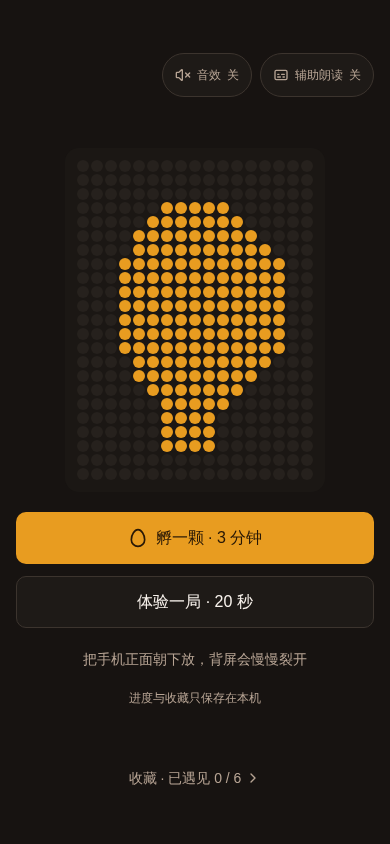
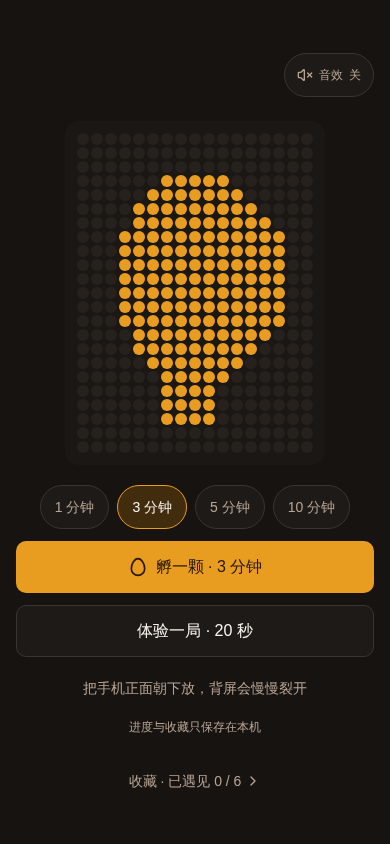
turn: 3

diff --git a/src/shared/egg/EggProvider.tsx b/src/shared/egg/EggProvider.tsx
@@ -32,7 +32,6 @@ import {
   type BackScreenMode,
 } from './backScreen'
 import { sfx, setSoundEnabled } from './audio'
-import { setNarrationEnabled, speak } from './speech'
 import {
   defaultRecord,
   loadRecord,
@@ -41,8 +40,9 @@ import {
 import { PET_BY_ID, petFrame, pickPetId, type Pet } from './pets'
 import { eggFrames, frameForPhase } from './patterns'
 import {
+  DEFAULT_DURATION_MS,
   DEMO_DURATION_MS,
-  NORMAL_DURATION_MS,
+  formatDuration,
   PHASE_BOUNDARIES,
   type EggMode,
   type EggPhase,
@@ -100,7 +100,7 @@ export interface EggContextValue {
   /** 减少动态（系统偏好）：不做帧动画 */
   reducedMotion: boolean
   collectionCount: number
-  startSession: (mode: EggMode) => Promise<void>
+  startSession: (mode: EggMode, durationMs?: number) => Promise<void>
   reveal: () => Promise<void>
   abortSession: () => Promise<void>
   retrySave: () => Promise<void>
@@ -179,7 +179,6 @@ export function EggProvider({ children }: { children: ReactNode }) {
           setRecord(loadedRecord)
           recordRef.current = loadedRecord
           setSoundEnabled(loadedRecord.settings.sound)
-          setNarrationEnabled(loadedRecord.settings.narration)
         }
       } catch (error) {
         if (error instanceof BridgeError && error.code === 'privacy') {
@@ -285,7 +284,6 @@ export function EggProvider({ children }: { children: ReactNode }) {
       const dueToast = () => toast({ title: '孵好了，翻过来看看。', tone: 'success' })
       dueToast()
       if (recordRef.current.settings.sound) sfx.due()
-      speak('孵好了，翻过来看看。')
       try {
         void invokeNative('vibrateShort', { type: 'medium' })
       } catch {
@@ -297,11 +295,9 @@ export function EggProvider({ children }: { children: ReactNode }) {
       const nextSession: EggSession = { ...session, phase: current, hintedPhases: [...hinted, current] }
       void persist({ ...recordRef.current, session: nextSession })
       if (current === 'waiting') {
-        toast({ title: '三分钟后，看看里面是谁。' })
-        speak('三分钟后，看看里面是谁。')
+        toast({ title: `${formatDuration(session.durationMs)}后，看看里面是谁。` })
       } else if (current === 'cracking') {
         toast({ title: '里面好像动了一下。' })
-        speak('里面好像动了一下。')
         if (recordRef.current.settings.sound) sfx.stage()
       }
     }
@@ -360,15 +356,18 @@ export function EggProvider({ children }: { children: ReactNode }) {
 
   /* ---------- 动作：开始一局 ---------- */
   const startSession = useCallback(
-    async (mode: EggMode) => {
+    async (mode: EggMode, durationMs?: number) => {
       const nowTs = Date.now()
-      const durationMs = mode === 'demo' ? DEMO_DURATION_MS : NORMAL_DURATION_MS
+      const chosen =
+        mode === 'demo'
+          ? DEMO_DURATION_MS
+          : Math.max(1_000, Math.round(durationMs ?? recordRef.current.settings.lastDurationMs ?? DEFAULT_DURATION_MS))
       const nextSession: EggSession = {
         sessionId: `egg_${nowTs.toString(36)}_${Math.random().toString(36).slice(2, 8)}`,
         mode,
-        durationMs,
+        durationMs: chosen,
         startedAt: nowTs,
-        deadlineAt: nowTs + durationMs,
+        deadlineAt: nowTs + chosen,
         petId: pickPetId(),
         phase: 'waiting',
         revealedAt: null,
@@ -377,14 +376,17 @@ export function EggProvider({ children }: { children: ReactNode }) {
       readyNotified.current = false
       monoBase.current = { wall: nowTs, mono: performance.now() }
       setNow(nowTs)
-      await persist({ ...recordRef.current, session: nextSession })
+      await persist({
+        ...recordRef.current,
+        settings: { ...recordRef.current.settings, lastDurationMs: mode === 'demo' ? recordRef.current.settings.lastDurationMs : chosen },
+        session: nextSession,
+      })
       await wakeBackScreen().then((r) => {
         if (r.ok) setBackScreenStatus('ok')
         else setBackScreenStatus('failed')
       })
       await submitPhaseFrame('waiting', nextSession.petId)
       if (recordRef.current.settings.sound) sfx.start()
-      speak('三分钟后，看看里面是谁。')
     },
     [persist, submitPhaseFrame],
   )
@@ -421,8 +423,6 @@ export function EggProvider({ children }: { children: ReactNode }) {
       // 预览环境无振动
     }
     if (recordRef.current.settings.sound) sfx.crack()
-    const pet = PET_BY_ID[petId]
-    if (pet) speak(`${pet.name}。${pet.quote}`)
     submitSeq.current += 1
     const seq = submitSeq.current
     const result = await pushFrame(petFrame(petId))
@@ -487,7 +487,6 @@ export function EggProvider({ children }: { children: ReactNode }) {
         settings: { ...recordRef.current.settings, ...patch },
       }
       if (patch.sound !== undefined) setSoundEnabled(patch.sound)
-      if (patch.narration !== undefined) setNarrationEnabled(patch.narration)
       void persist(next)
     },
     [persist],

diff --git a/src/app/pages/StartPage.tsx b/src/app/pages/StartPage.tsx
@@ -1,6 +1,6 @@
 import { useState, type ReactNode } from 'react'
 import { useNavigate } from 'react-router-dom'
-import { Captions, ChevronRight, Egg, Volume2, VolumeX } from 'lucide-react'
+import { ChevronRight, Egg, Volume2, VolumeX } from 'lucide-react'
 
 import { Button } from '@/shared/ui/Button'
 import { Card, CardBody } from '@/shared/ui/Card'
@@ -8,7 +8,7 @@ import { Dialog } from '@/shared/ui/Dialog'
 import { cn } from '@/shared/lib/cn'
 import { useEgg } from '@/shared/egg/EggProvider'
 import { eggFrames } from '@/shared/egg/patterns'
-import { PHASE_LABEL, type EggMode } from '@/shared/egg/types'
+import { DURATION_OPTIONS_MS, DEFAULT_DURATION_MS, PHASE_LABEL, formatDuration, type EggMode } from '@/shared/egg/types'
 import { MatrixView } from '@/app/components/MatrixView'
 
 function formatCountdown(ms: number): string {
@@ -59,34 +59,32 @@ export function StartPage() {
     abortSession,
     updateSettings,
   } = useEgg()
-  const [pendingStart, setPendingStart] = useState<EggMode | null>(null)
+  const [pendingStart, setPendingStart] = useState<{ mode: EggMode; durationMs: number } | null>(null)
+  const [durationMs, setDurationMs] = useState(
+    () => settings.lastDurationMs || DEFAULT_DURATION_MS,
+  )
 
   const active = session != null && phase !== 'revealed'
   const privacyMissing = loaded && settings.privacyAgreed === false
 
   const onStart = (mode: EggMode) => {
+    const chosen = mode === 'demo' ? 0 : durationMs
     if (active) {
-      setPendingStart(mode)
+      setPendingStart({ mode, durationMs: chosen })
       return
     }
-    void startSession(mode).then(() => navigate('/hatch'))
+    void startSession(mode, chosen || undefined).then(() => navigate('/hatch'))
   }
 
   return (
     <div className="page flex min-h-full flex-col">
-      {/* 开始页顶部：音效与辅助朗读开关（默认关闭、相互独立） */}
+      {/* 开始页顶部：音效开关（默认关闭） */}
       <div className="flex items-center justify-end gap-2">
         <TogglePill
           on={settings.sound}
           onClick={() => updateSettings({ sound: !settings.sound })}
           icon={settings.sound ? <Volume2 className="size-4" aria-hidden /> : <VolumeX className="size-4" aria-hidden />}
           label="音效"
-        />
-        <TogglePill
-          on={settings.narration}
-          onClick={() => updateSettings({ narration: !settings.narration })}
-          icon={<Captions className="size-4" aria-hidden />}
-          label="辅助朗读"
         />
       </div>
 
@@ -117,9 +115,30 @@ export function StartPage() {
         ) : null}
 
         <div className="w-full space-y-3">
+          <div className="flex items-center justify-center gap-2" role="group" aria-label="计时时长">
+            {DURATION_OPTIONS_MS.map((option) => (
+              <button
+                key={option}
+                type="button"
+                aria-pressed={durationMs === option}
+                onClick={() => {
+                  setDurationMs(option)
+                  updateSettings({ lastDurationMs: option })
+                }}
+                className={cn(
+                  'min-h-tap rounded-full border px-3.5 text-body transition-colors duration-fast',
+                  durationMs === option
+                    ? 'border-primary bg-primary-soft text-foreground'
+                    : 'border-border bg-surface text-muted-foreground',
+                )}
+              >
+                {formatDuration(option)}
+              </button>
+            ))}
+          </div>
           <Button size="lg" block onClick={() => onStart('normal')}>
             <Egg className="size-5" aria-hidden />
-            孵一颗 · 3 分钟
+            孵一颗 · {formatDuration(durationMs)}
           </Button>
           <Button size="lg" variant="outline" block onClick={() => onStart('demo')}>
             体验一局 · 20 秒
@@ -158,10 +177,12 @@ export function StartPage() {
             </Button>
             <Button
               onClick={() => {
-                const mode = pendingStart
+                const pending = pendingStart
                 setPendingStart(null)
-                if (!mode) return
-                void abortSession().then(() => startSession(mode)).then(() => navigate('/hatch'))
+                if (!pending) return
+                void abortSession()
+                  .then(() => startSession(pending.mode, pending.durationMs || undefined))
+                  .then(() => navigate('/hatch'))
               }}
             >
               结束并重孵

diff --git a/src/app/pages/CollectionPage.tsx b/src/app/pages/CollectionPage.tsx
@@ -4,9 +4,10 @@ import { ChevronRight, Egg, Volume2 } from 'lucide-react'
 import { Button } from '@/shared/ui/Button'
 import { Card, CardBody } from '@/shared/ui/Card'
 import { EmptyState } from '@/shared/ui/Feedback'
+import { useToast } from '@/shared/ui/Toast'
 import { useEgg } from '@/shared/egg/EggProvider'
+import { sfx } from '@/shared/egg/audio'
 import { PETS, petFrame } from '@/shared/egg/pets'
-import { speak } from '@/shared/egg/speech'
 import { MatrixView } from '@/app/components/MatrixView'
 import { usePageTitle } from '@/app/layout/PageTitle'
 import { formatRelativeTime } from '@/shared/lib/format'
@@ -14,7 +15,8 @@ import { formatRelativeTime } from '@/shared/lib/format'
 export function CollectionPage() {
   usePageTitle('收藏')
   const navigate = useNavigate()
-  const { loaded, record, session, phase } = useEgg()
+  const { loaded, record, session, phase, settings } = useEgg()
+  const { toast } = useToast()
 
   if (!loaded) return null
 
@@ -80,7 +82,10 @@ export function CollectionPage() {
                     <button
                       type="button"
                       aria-label={`重听${pet.name}的文案`}
-                      onClick={() => speak(`${pet.name}。${pet.quote}`)}
+                      onClick={() => {
+                        if (settings.sound) sfx.meet()
+                        toast({ title: `${pet.name}：${pet.quote}` })
+                      }}
                       className="flex size-11 items-center justify-center rounded-md text-muted-foreground active:bg-accent"
                     >
                       <Volume2 className="size-5" aria-hidden />

diff --git a/src/shared/egg/types.ts b/src/shared/egg/types.ts
@@ -31,10 +31,10 @@ export interface EggSession {
 export interface EggSettings {
   /** 音效开关（默认关） */
   sound: boolean
-  /** 辅助朗读开关（默认关） */
-  narration: boolean
   /** 翻面自动揭晓（需真机验证，默认关） */
   flipReveal: boolean
+  /** 上次选择的正式模式时长（ms），新一局默认沿用 */
+  lastDurationMs: number
   /** 隐私同意状态缓存 */
   privacyAgreed: boolean | null
 }
@@ -72,3 +72,14 @@ export const PHASE_BOUNDARIES = { cracking: 0.5, almost: 0.85 }
 
 export const NORMAL_DURATION_MS = 3 * 60 * 1000
 export const DEMO_DURATION_MS = 20 * 1000
+
+/** 正式模式可选的计时时长（ms）：1 / 3 / 5 / 10 分钟 */
+export const DURATION_OPTIONS_MS = [60_000, 3 * 60_000, 5 * 60_000, 10 * 60_000]
+export const DEFAULT_DURATION_MS = NORMAL_DURATION_MS
+
+/** 时长的人话标签：不足 1 分钟按秒，否则按分钟 */
+export function formatDuration(ms: number): string {
+  const totalSeconds = Math.round(ms / 1000)
+  if (totalSeconds < 60) return `${totalSeconds} 秒`
+  return `${Math.round(totalSeconds / 60)} 分钟`
+}

diff --git a/src/shared/egg/storage.ts b/src/shared/egg/storage.ts
@@ -8,6 +8,7 @@
  * ========================================================================== */
 
 import { invokeNative, BridgeError } from '@/shared/bridge'
+import { DEFAULT_DURATION_MS } from './types'
 import type { EggRecord, EggSession, PetCount } from './types'
 
 export const RECORD_VERSION = 1
@@ -16,7 +17,7 @@ const RECORD_KEY = 'egg.record.v1'
 export function defaultRecord(): EggRecord {
   return {
     version: RECORD_VERSION,
-    settings: { sound: false, narration: false, flipReveal: false, privacyAgreed: null },
+    settings: { sound: false, flipReveal: false, lastDurationMs: DEFAULT_DURATION_MS, privacyAgreed: null },
     session: null,
     collection: {},
   }

diff --git a/src/app/pages/HatchPage.tsx b/src/app/pages/HatchPage.tsx
@@ -235,7 +235,7 @@ export function HatchPage() {
               <Button
                 size="lg"
                 block
-                onClick={() => void startSession(session.mode)}
+                onClick={() => void startSession(session.mode, session.durationMs)}
               >
                 <Egg className="size-5" aria-hidden />
                 再孵一颗

diff --git a/docs/acceptance.md b/docs/acceptance.md
@@ -12,7 +12,7 @@
 | `npm run typecheck` | 通过 |
 | `npm run build`（native 主产物） | 通过，产物 `dist/client/` |
 | `validate.mjs . --build`（工程门禁） | 39/39 通过，0 阻断 |
-| `node scripts/acceptance-web.mjs`（网页验收） | 28/28 通过，截图在 `.acceptance/` |
+| `node scripts/acceptance-web.mjs`（网页验收） | 33/33 通过，截图在 `.acceptance/` |
 | 视觉走查 | 12 张截图已人工核对（蛋形、裂纹扩展、ready 两半壳+问号、收藏剪影） |
 
 ## PRD 07 章验收用例逐条结果
@@ -28,23 +28,24 @@
 | 7 | 显示冲突 | 待真机验证 | 背屏被系统覆盖后回应用只提交当前阶段的逻辑已实现；系统抢占与恢复的真实行为需真机记录 |
 | 8 | 存储拒绝或失败 | 本地通过 | 注入写失败：页面提示「这次收藏还没保存」+ 重试按钮，重试后收藏写入且只加一次；隐私未同意时开始页明示影响、仍可临时体验（退出可能丢失） |
 | 9 | 断网与时间变化 | 本地通过（断网）+ 本地通过（时钟跳变） | 全部数据本地，断网可完整运行；设备时间跳变 >3s 时按已运行时长重算 `deadlineAt` 并提示用户（单调时钟校验，`performance.now()` vs `Date.now()`） |
-| 10 | 无障碍与音效 | 本地通过 + 待真机验证 | 按钮均有可读名称、阶段文本 `aria-live="polite"`、倒计时不每秒播报；音效/辅助朗读默认关且独立、可随时关闭；点阵主屏预览 + 文本状态双通道；减少动态（系统偏好）时跳过帧动画直接出结果。**系统读屏（TalkBack/旁白）真机验证待 APK** |
+| 10 | 无障碍与音效 | 本地通过 + 待真机验证 | 按钮均有可读名称、阶段文本 aria-live、倒计时不每秒播报；音效默认关、可随时开启；点阵主屏预览 + 文本状态双通道；减少动态（系统偏好）时跳过帧动画直接出结果。**系统读屏（TalkBack/旁白）真机验证待 APK** |
 
 ## 其他章节关键条目
 
 | PRD 条目 | 结果 |
 | --- | --- |
 | 01 开始页：蛋 + 「孵一颗 · 3 分钟」+ 「把手机正面朝下放，背屏会慢慢裂开」 | 本地通过 |
-| 01 音效 / 辅助朗读开关在开始页顶部、默认关 | 本地通过 |
+| 01 音效开关在开始页顶部、默认关 | 本地通过 |
+| 01 自定义计时时长（1 / 3 / 5 / 10 分钟，默认 3 分钟，选择被记住） | 本地通过 |
 | 02 开始后主屏 03:00 + 「已经开始了，放下手机等一会儿」 | 本地通过 |
 | 02 背屏失败展示「背屏暂时没接上」+ 重试 + 主屏预览 | 本地通过（模拟 unavailable 路径验证） |
-| 02 固定文案：开始「三分钟后，看看里面是谁。」/ 中途「里面好像动了一下。」（仅首次进阶段）/ 到期「孵好了，翻过来看看。」/ 结束确认「结束这颗蛋？」 | 本地通过 |
+| 02 固定文案：开始「{时长}后，看看里面是谁。」（随时长泛化）/ 中途「里面好像动了一下。」（仅首次进阶段）/ 到期「孵好了，翻过来看看。」/ 结束确认「结束这颗蛋？」 | 本地通过 |
 | 02 到期短振一次、连续触发只提示一次 | 本地通过（振动调用已接线，可感知性待真机） |
 | 02 到期按钮「看看是谁」、先 1 秒破壳再展示角色/名字/短句/「再孵一颗」 | 本地通过 |
 | 03 阶段图案：等待 0–50%（8 秒两帧轻晃）/ 快了 50–85%（一条较粗裂纹）/ 快出来了 85–100%（裂纹扩展 + 上部偏移）/ 可揭晓（裂开蛋+问号）/ 已揭晓（角色剪影） | 本地通过（12 张截图核对） |
 | 03 背屏行优先 17×23=391、静帧切换、恢复只提交当前阶段 | 本地通过（模拟桥），真机方向/亮度待验证 |
 | 04 六个角色、等概率、开始时一次抽取并保存、重复出现仍是完整揭晓 | 本地通过（petId 开局确定、重复计数 +1） |
-| 04 收藏 6 格固定顺序、名称/次数/最近日期、未遇见显示剪影、「已遇见 x / 6」、已遇见可重听文案 | 本地通过 |
+| 04 收藏 6 格固定顺序、名称/次数/最近日期、未遇见显示剪影、「已遇见 x / 6」、点小喇叭有 toast 文案反馈 | 本地通过 |
 | 04 揭晓与计数同一份记录更新、写成功才确认、失败「这次收藏还没保存」可重试、同 sessionId 不重复加 | 本地通过 |
 | 05 背屏 `ic_atomic_990001`：`window.mcp.callTool` + `set_back_screen_frame{frame:number[391]}` / `clear_back_screen_frame` / `wake_up_back_screen` / `sleep_back_screen` | 接入层已隔离封装，待真机最小调用 |
 | 05 `getSensor` / `vibrateShort` / `setKeepScreenOn` / `setStorage`/`getStorage` / `privacy.getStatus` / `appShow`/`appHide` | 已按壳接口接线，待真机 |

diff --git a/README.md b/README.md
@@ -4,8 +4,8 @@
 
 ## 功能
 
-- **三个页面**：开始页（开始 / 演示 / 音效与辅助朗读开关）、孵化及揭晓页（倒计时、阶段、点阵预览、揭晓）、收藏页（6 格收藏、次数与最近日期、重听文案）。
-- **正式 3 分钟 / 演示 20 秒**：演示模式在页面常驻标识，收藏写入同一本地空间。
+- **三个页面**：开始页（时长选择 / 开始 / 演示 / 音效开关）、孵化及揭晓页（倒计时、阶段、点阵预览、揭晓）、收藏页（6 格收藏、次数与最近日期、点小喇叭重看文案）。
+- **自定义时长 / 演示 20 秒**：正式模式可选 1 / 3 / 5 / 10 分钟（默认 3 分钟，选择会被记住）；演示模式 20 秒，页面常驻标识，收藏写入同一本地空间。
 - **6 个预制角色**：发芽土豆、迟到小鸭、纸箱幽灵、打盹云、一脸问号、小小蛋，等概率抽取，结果在开局时确定并保存在本机。
 - **背屏点阵**：完整蛋 → 裂纹 → 裂纹扩展（上部偏移）→ 裂开加问号 → 角色剪影，五个阶段与主屏预览共用同一份 17×23 图案；等待阶段有轻晃两帧。
 - **本地保存**：设置、当前一局与角色计数存在一份带版本号的本地记录里；重启后按到期时间恢复当前阶段。
